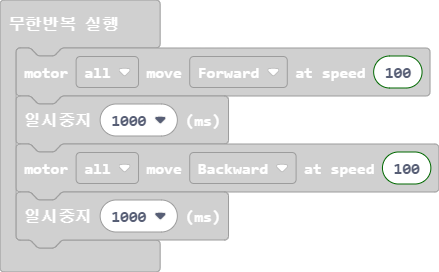
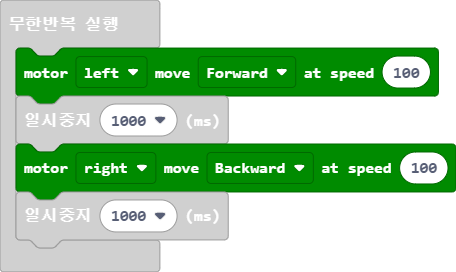
main.blocks, main.ts 업데이트하기

diff --git a/main.ts b/main.ts
@@ -1,6 +1,6 @@
 basic.forever(function () {
-    maqueen.motorRun(maqueen.Motors.All, maqueen.Dir.CW, 100)
+    maqueen.motorRun(maqueen.Motors.M1, maqueen.Dir.CW, 100)
     basic.pause(1000)
-    maqueen.motorRun(maqueen.Motors.All, maqueen.Dir.CCW, 100)
+    maqueen.motorRun(maqueen.Motors.M2, maqueen.Dir.CCW, 100)
     basic.pause(1000)
 })
